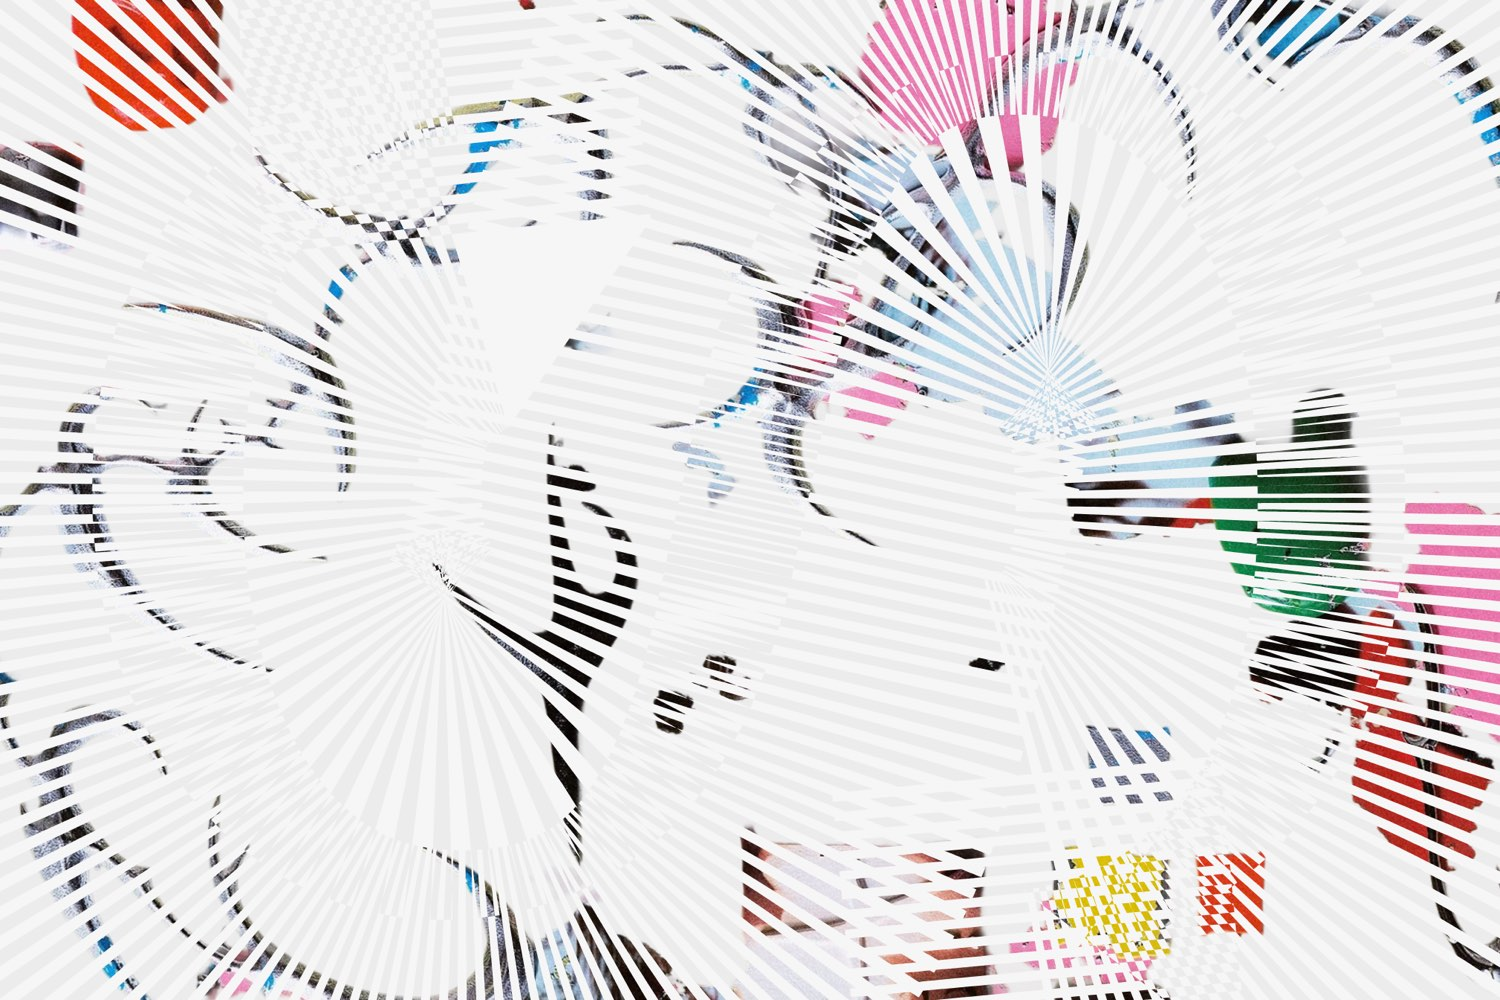
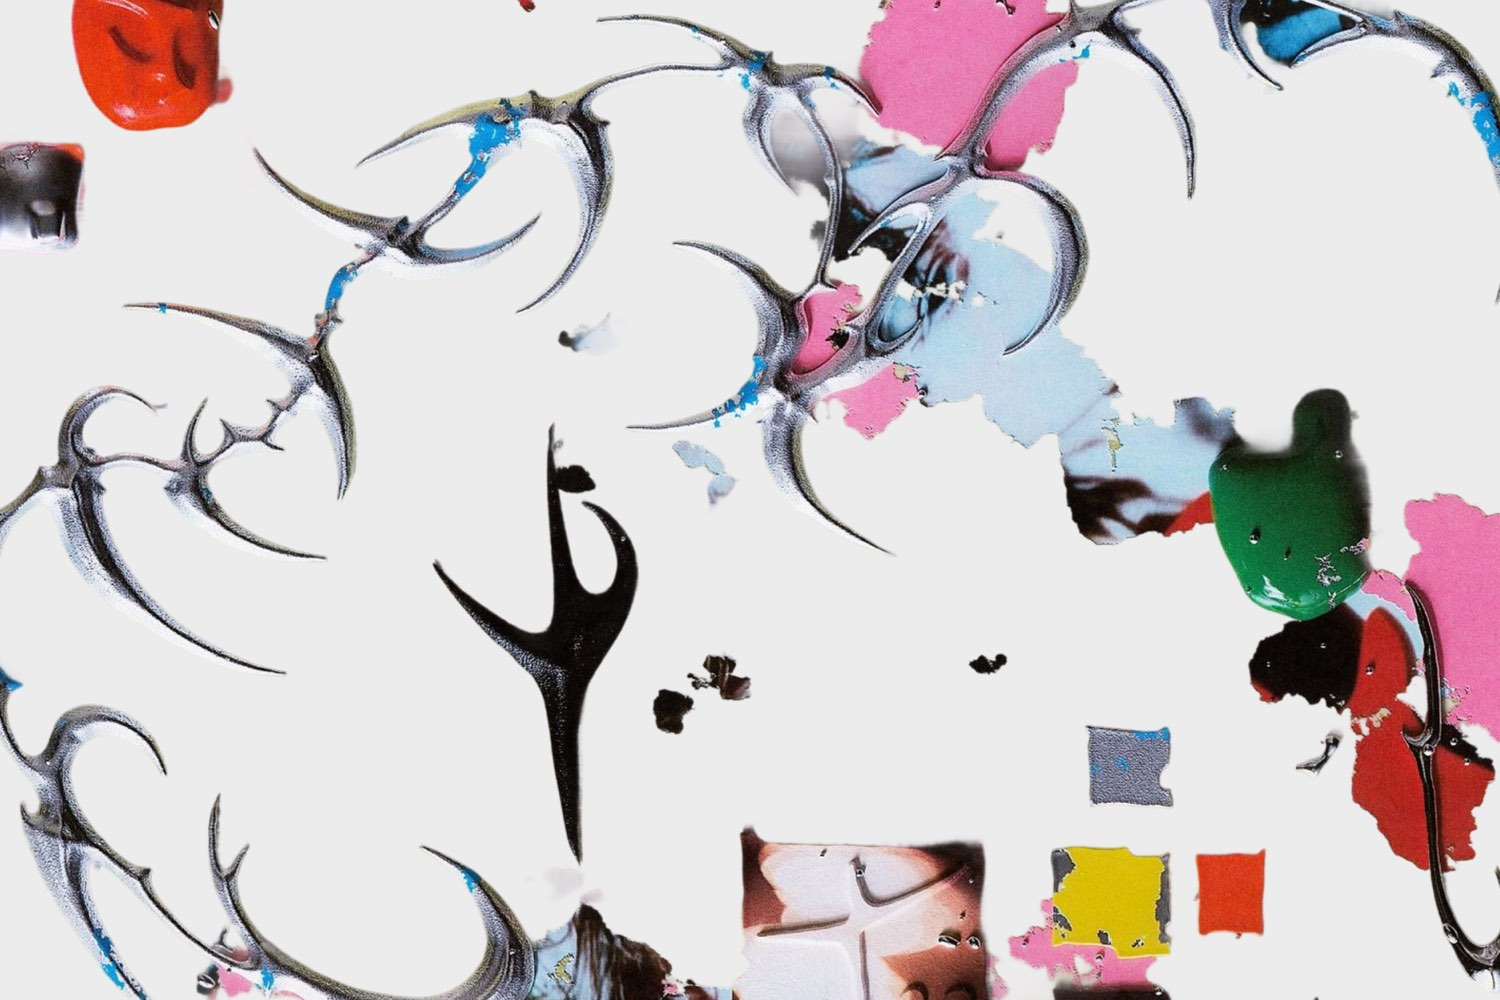
Вращающиеся веера в футере, отступ у клиентов, правки наведения
Фон футера разобран обратно на два слоя: коллаж отдельной картинкой и
пятнадцать кругов с секциями поверх него. Секции — repeating-conic-
gradient, поэтому рисунок ничего не весит: запечённый вектор на 624 КБ
удалён, коллаж пересобран без лучей и похудел с 291 до 190 КБ.

Наложение двухступенчатое. Внутри группы круги считаются друг с другом
через exclusion: одиночный остаётся белым, а белое на белом в пересечении
даёт чёрное. Сама группа ложится на коллаж через screen, для которого
чёрный прозрачен, — в пересечениях проступает фотография. Без isolation
круги считались бы с фотографией, и футер уходил в негатив.

Каждый круг вращается в свою сторону и со своим шагом, оборот за 70–138
секунд. Пока футер вне кадра — пауза; при системной настройке «уменьшить
движение» круги стоят. Центры разложены по всему кадру: у веера просветы
тем шире, чем дальше от центра, поэтому пустоты закрываются количеством
фигур, а не их размером. Часть вытянута в овал.

Починен знак süra на мобильном: у ячейки стоял padding-top в процентах,
а он резолвится от ширины контейнера. После перевода на общую сетку
ячейка стала одной колонкой, 20% превратились в 9px, и знак уезжал под
шапку. Теперь отступ считается от высоты экрана.

Блок клиентов отступает на колонку слева — как кейсы, услуги и CTA.
Основной текст поднят с 14 до 15px. Кнопки больше не приподнимаются при
наведении.

diff --git a/src/style.css b/src/style.css
@@ -115,15 +115,10 @@ button,
   border-radius: var(--radius-button);
   background: var(--color-white);
   color: var(--color-black);
-  transition: transform var(--transition-hover), background-color var(--transition-base);
+  transition: background-color var(--transition-base);
 
   &:hover {
     background: var(--color-bg);
-    transform: translateY(-2px);
-  }
-
-  &:active {
-    transform: translateY(0);
   }
 }
 
@@ -802,15 +797,10 @@ button,
   border-radius: var(--radius-button);
   background: var(--color-black);
   color: var(--color-white);
-  transition: transform var(--transition-hover), background-color var(--transition-base);
+  transition: background-color var(--transition-base);
 
   &:hover {
     background: var(--color-bg-inverse);
-    transform: translateY(-2px);
-  }
-
-  &:active {
-    transform: translateY(0);
   }
 }
 
@@ -822,8 +812,9 @@ button,
   background: var(--color-grey);
   color: var(--color-black);
 
+  /* блок отступает на колонку слева, как кейсы, услуги и CTA */
   & .O_Clients-title {
-    grid-column: 1 / 3;
+    grid-column: 2 / 4;
     margin: 0;
     white-space: nowrap;
   }
@@ -900,6 +891,23 @@ button,
     opacity: 1;
   }
 
+  /* Круги-веера поверх коллажа. Секции — repeating-conic-gradient, так что
+     рисунок ничего не весит и не мылится.
+
+     Наложение двухступенчатое. Внутри группы круги считаются друг с другом
+     через exclusion: одиночный круг остаётся белым, а в пересечении белое
+     на белом даёт чёрное. Сама группа ложится на коллаж через screen, для
+     которого чёрный прозрачен, — то есть в пересечениях проступает фото, а
+     между лучами коллаж виден и так. Без isolation круги считались бы не
+     между собой, а с фотографией, и всё уходило бы в негатив. */
+  & .O_Footer-rays {
+    position: absolute;
+    inset: 0;
+    pointer-events: none;
+    isolation: isolate;
+    mix-blend-mode: screen;
+  }
+
   /* знак растянут по высоте: вектор с preserveAspectRatio="none" */
   & .A_FooterWordmark {
     position: absolute;
@@ -912,6 +920,49 @@ button,
     pointer-events: none;
   }
 }
+
+
+/* ===== A_RayCircle — круг с секциями ==================================
+   Размер, положение и число секций задаются модификатором; вращение —
+   в footerRays.js, каждый круг в свою сторону.
+   ====================================================================== */
+
+.A_RayCircle {
+  position: absolute;
+  left: var(--ray-x);
+  top: var(--ray-y);
+  width: var(--ray-w);
+  /* высота по умолчанию равна ширине — круг; задали отдельно, получился
+     овал, и веер вытягивается вместе с ним */
+  height: var(--ray-h, var(--ray-w));
+  translate: -50% -50%;
+  border-radius: 50%;
+  mix-blend-mode: exclusion;
+  will-change: transform;
+  background: repeating-conic-gradient(
+    var(--color-white-pure) 0deg calc(180deg / var(--ray-slices)),
+    transparent calc(180deg / var(--ray-slices)) calc(360deg / var(--ray-slices))
+  );
+}
+
+/* Центры разложены по всему кадру с разбросом: у веера просветы между
+   лучами тем шире, чем дальше от центра, поэтому пустоты закрываются не
+   размером фигур, а их количеством. Часть вытянута в овал. */
+.A_RayCircle--1  { --ray-x: 8%; --ray-y: 10%; --ray-w: 46vmin; --ray-slices: 18; }
+.A_RayCircle--2  { --ray-x: 33%; --ray-y: 6%; --ray-w: 40vmin; --ray-slices: 14; }
+.A_RayCircle--3  { --ray-x: 60%; --ray-y: 9%; --ray-w: 52vmin; --ray-slices: 22; }
+.A_RayCircle--4  { --ray-x: 92%; --ray-y: 12%; --ray-w: 44vmin; --ray-slices: 16; }
+.A_RayCircle--5  { --ray-x: 6%; --ray-y: 36%; --ray-w: 54vmin; --ray-h: 38vmin; --ray-slices: 20; }
+.A_RayCircle--6  { --ray-x: 35%; --ray-y: 33%; --ray-w: 42vmin; --ray-slices: 16; }
+.A_RayCircle--7  { --ray-x: 63%; --ray-y: 38%; --ray-w: 48vmin; --ray-slices: 20; }
+.A_RayCircle--8  { --ray-x: 94%; --ray-y: 34%; --ray-w: 38vmin; --ray-h: 58vmin; --ray-slices: 24; }
+.A_RayCircle--9  { --ray-x: 9%; --ray-y: 64%; --ray-w: 44vmin; --ray-slices: 16; }
+.A_RayCircle--10 { --ray-x: 32%; --ray-y: 66%; --ray-w: 56vmin; --ray-h: 40vmin; --ray-slices: 22; }
+.A_RayCircle--11 { --ray-x: 61%; --ray-y: 62%; --ray-w: 40vmin; --ray-slices: 14; }
+.A_RayCircle--12 { --ray-x: 90%; --ray-y: 66%; --ray-w: 150vmin; --ray-slices: 20; }
+.A_RayCircle--13 { --ray-x: 12%; --ray-y: 92%; --ray-w: 48vmin; --ray-slices: 18; }
+.A_RayCircle--14 { --ray-x: 38%; --ray-y: 95%; --ray-w: 42vmin; --ray-h: 62vmin; --ray-slices: 24; }
+.A_RayCircle--15 { --ray-x: 66%; --ray-y: 90%; --ray-w: 216vmin; --ray-slices: 22; }
 
 
 /* ===== M_FooterLinks =================================================== */

diff --git a/src/javascript/footerRays.js b/src/javascript/footerRays.js
@@ -1,0 +1,50 @@
+/**
+ * footerRays — круги-веера в футере медленно вращаются.
+ *
+ * Каждый круг крутится в свою сторону и со своим шагом, чтобы пересечения
+ * всё время перестраивались и рисунок не выглядел одной жёсткой картинкой.
+ *
+ * Пока футер вне кадра, анимация стоит на паузе. При системной настройке
+ * «уменьшить движение» круги остаются неподвижными.
+ */
+
+import gsap from "gsap";
+import { ScrollTrigger } from "gsap/ScrollTrigger";
+
+gsap.registerPlugin(ScrollTrigger);
+
+const footer = document.querySelector(".O_Footer");
+const circles = gsap.utils.toArray(".A_RayCircle");
+
+if (footer && circles.length) {
+  gsap.matchMedia().add("(prefers-reduced-motion: no-preference)", () => {
+    const base =
+      parseFloat(getComputedStyle(footer).getPropertyValue("--footer-ray-spin")) || 70;
+
+    const spins = circles.map((circle, i) =>
+      gsap.to(circle, {
+        rotation: i % 2 ? -360 : 360,
+        // шаг по кругам, чтобы обороты не совпадали и узор не «замирал»;
+        // по модулю — иначе на дюжине фигур последние крутились бы впятеро
+        // медленнее первых
+        duration: base + (i % 5) * 17,
+        ease: "none",
+        repeat: -1,
+        paused: true,
+      })
+    );
+
+    const trigger = ScrollTrigger.create({
+      trigger: footer,
+      start: "top bottom",
+      end: "bottom top",
+      onToggle: (self) =>
+        spins.forEach((spin) => (self.isActive ? spin.play() : spin.pause())),
+    });
+
+    return () => {
+      trigger.kill();
+      spins.forEach((spin) => spin.kill());
+    };
+  });
+}

diff --git a/ru/index.html b/ru/index.html
@@ -280,6 +280,24 @@
       <img src="/src/images/footer/footer-bg.jpg" alt="" width="1500" height="1000" loading="lazy" data-media-reveal>
     </div>
 
+    <div class="O_Footer-rays" aria-hidden="true">
+      <span class="A_RayCircle A_RayCircle--1"></span>
+      <span class="A_RayCircle A_RayCircle--2"></span>
+      <span class="A_RayCircle A_RayCircle--3"></span>
+      <span class="A_RayCircle A_RayCircle--4"></span>
+      <span class="A_RayCircle A_RayCircle--5"></span>
+      <span class="A_RayCircle A_RayCircle--6"></span>
+      <span class="A_RayCircle A_RayCircle--7"></span>
+      <span class="A_RayCircle A_RayCircle--8"></span>
+      <span class="A_RayCircle A_RayCircle--9"></span>
+      <span class="A_RayCircle A_RayCircle--10"></span>
+      <span class="A_RayCircle A_RayCircle--11"></span>
+      <span class="A_RayCircle A_RayCircle--12"></span>
+      <span class="A_RayCircle A_RayCircle--13"></span>
+      <span class="A_RayCircle A_RayCircle--14"></span>
+      <span class="A_RayCircle A_RayCircle--15"></span>
+    </div>
+
     <img class="A_FooterWordmark" src="/src/images/logos/wordmark-footer.svg" alt="süra" width="366" height="832" loading="lazy">
 
     <nav class="M_FooterLinks W_Grid" aria-label="Соцсети студии">
@@ -399,6 +417,7 @@
   <script type="module" src="/src/javascript/menuScroll.js"></script>
   <script type="module" src="/src/javascript/casesWidget.js"></script>
   <script type="module" src="/src/javascript/headerScroll.js"></script>
+  <script type="module" src="/src/javascript/footerRays.js"></script>
   <script type="module" src="/src/javascript/heroLogoScroll.js"></script>
   <script type="module" src="/src/javascript/scrollReveal.js"></script>
   <script type="module" src="/src/javascript/caseTip.js"></script>

diff --git a/index.html b/index.html
@@ -280,6 +280,24 @@
       <img src="/src/images/footer/footer-bg.jpg" alt="" width="1500" height="1000" loading="lazy" data-media-reveal>
     </div>
 
+    <div class="O_Footer-rays" aria-hidden="true">
+      <span class="A_RayCircle A_RayCircle--1"></span>
+      <span class="A_RayCircle A_RayCircle--2"></span>
+      <span class="A_RayCircle A_RayCircle--3"></span>
+      <span class="A_RayCircle A_RayCircle--4"></span>
+      <span class="A_RayCircle A_RayCircle--5"></span>
+      <span class="A_RayCircle A_RayCircle--6"></span>
+      <span class="A_RayCircle A_RayCircle--7"></span>
+      <span class="A_RayCircle A_RayCircle--8"></span>
+      <span class="A_RayCircle A_RayCircle--9"></span>
+      <span class="A_RayCircle A_RayCircle--10"></span>
+      <span class="A_RayCircle A_RayCircle--11"></span>
+      <span class="A_RayCircle A_RayCircle--12"></span>
+      <span class="A_RayCircle A_RayCircle--13"></span>
+      <span class="A_RayCircle A_RayCircle--14"></span>
+      <span class="A_RayCircle A_RayCircle--15"></span>
+    </div>
+
     <img class="A_FooterWordmark" src="/src/images/logos/wordmark-footer.svg" alt="süra" width="366" height="832" loading="lazy">
 
     <nav class="M_FooterLinks W_Grid" aria-label="Studio social links">
@@ -399,6 +417,7 @@
   <script type="module" src="/src/javascript/menuScroll.js"></script>
   <script type="module" src="/src/javascript/casesWidget.js"></script>
   <script type="module" src="/src/javascript/headerScroll.js"></script>
+  <script type="module" src="/src/javascript/footerRays.js"></script>
   <script type="module" src="/src/javascript/heroLogoScroll.js"></script>
   <script type="module" src="/src/javascript/scrollReveal.js"></script>
   <script type="module" src="/src/javascript/caseTip.js"></script>

diff --git a/src/stylesheets/responsive.css b/src/stylesheets/responsive.css
@@ -91,7 +91,7 @@
     --button-h: 52px;
     --hero-min-h: 560px;
     --hero-logo-w: 60vw;
-    --hero-logo-h: 300px;
+    --hero-logo-h: 260px;
     --hero-logo-h-min: 110px;
     --cases-pad-top: var(--space-l);
     --case-blur: 10px;                 /* стекло шапки мобильной карточки */
@@ -124,11 +124,14 @@
     font-size: 16px;
   }
 
-  /* знак и меню больше не встают в ряд: знак поднимается под шапку,
-     меню остаётся внизу справа */
+  /* Знак встаёт между виджетом и меню. Отступ считаем от высоты экрана:
+     процентный padding резолвится от ШИРИНЫ контейнера, а ячейка знака —
+     это одна колонка сетки (43px на 375), и 20% давали 9px вместо доли
+     экрана — знак уезжал под шапку. Нижний предел держит его ниже виджета
+     на невысоких телефонах. */
   .A_Wordmark {
     align-items: flex-start;
-    padding-top: 20%;
+    padding-top: max(26svh, 200px);
     padding-bottom: 0;
   }
 

diff --git a/src/stylesheets/vars.css b/src/stylesheets/vars.css
@@ -169,4 +169,7 @@
   --footer-logo-w: 366px;
   --footer-logo-top: 108px;
   --footer-link-w: 238px;
+  /* Круги-веера в футере: базовая скорость оборота, от неё считаются
+     остальные — каждый круг крутится в свою сторону и со своим шагом. */
+  --footer-ray-spin: 70s;
 }

diff --git a/src/stylesheets/typekit.css b/src/stylesheets/typekit.css
@@ -35,9 +35,9 @@
   font-weight: 600;
 }
 
-/* Figma: body — Inter Tight Medium 14 / 16 */
+/* Figma: body — Inter Tight Medium 14 / 16, размер поднят до 15 */
 .Body {
-  font-size: 14px;
+  font-size: 15px;
   line-height: 114.3%;
   letter-spacing: 0;
   font-weight: 500;
